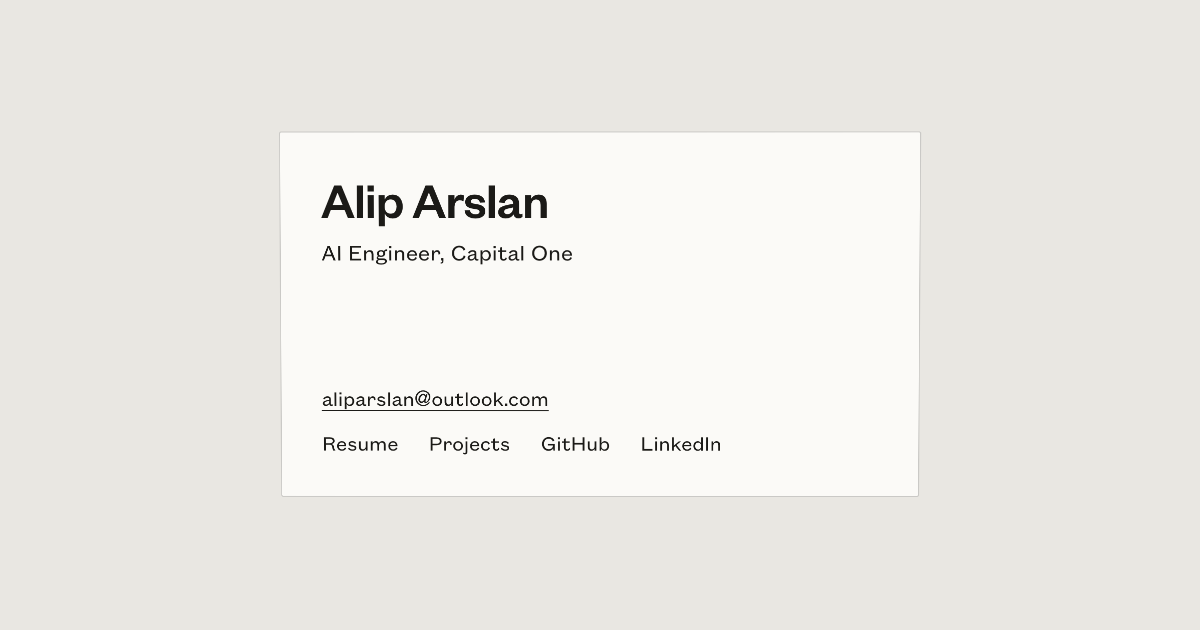
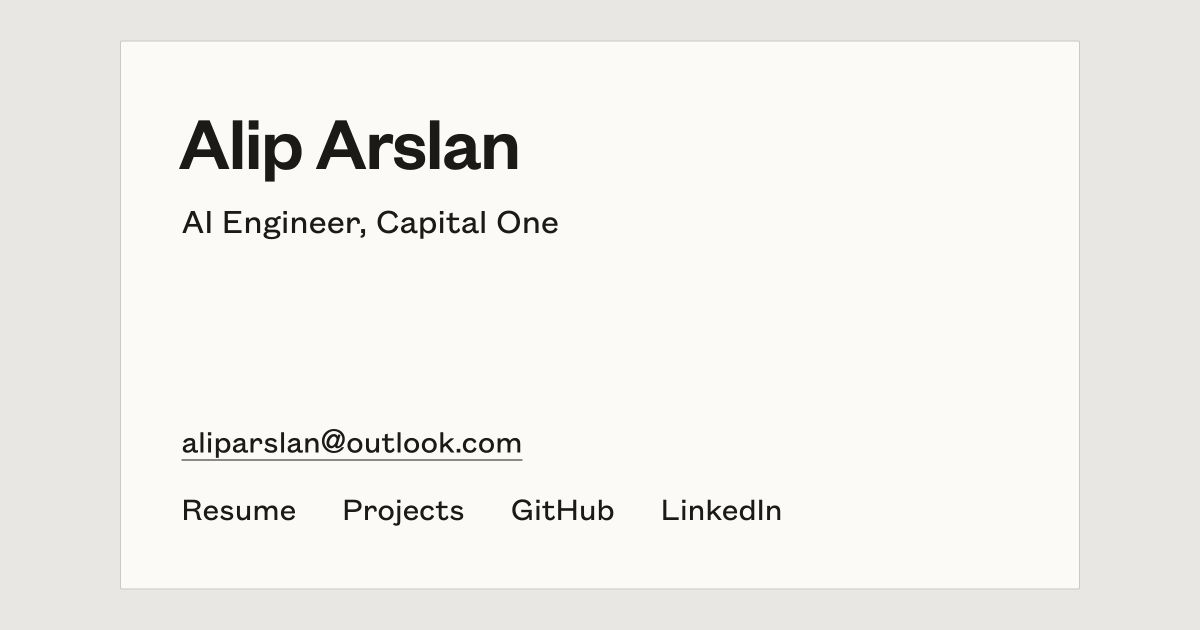
make preview larger, improve swipe animation

diff --git a/script.js b/script.js
@@ -3,13 +3,17 @@ const frontFace = document.getElementById('front');
 const backFace = document.getElementById('back');
 const showBackButton = document.getElementById('flip-to-back');
 const showFrontButton = document.getElementById('flip-to-front');
+const finePointer = window.matchMedia('(pointer: fine)').matches;
+const reducedMotion = window.matchMedia('(prefers-reduced-motion: reduce)').matches;
 
-function setFlipped(showBack) {
+function setFlipped(showBack, moveFocus = true) {
   card.classList.toggle('flipped', showBack);
   showBackButton.setAttribute('aria-expanded', String(showBack));
   frontFace.toggleAttribute('inert', showBack);
   backFace.toggleAttribute('inert', !showBack);
-  (showBack ? showFrontButton : showBackButton).focus({ preventScroll: true });
+  if (moveFocus) {
+    (showBack ? showFrontButton : showBackButton).focus({ preventScroll: true });
+  }
 }
 
 showBackButton.addEventListener('click', () => setFlipped(true));
@@ -25,6 +29,28 @@ window.addEventListener('keydown', (event) => {
 let swipeStart = null;
 let suppressClick = false;
 let suppressClickTimer;
+let dragCleanupTimer;
+
+function settleDrag(showBack, targetAngle, moveFocus) {
+  setFlipped(showBack, moveFocus);
+  card.classList.remove('dragging');
+
+  window.requestAnimationFrame(() => {
+    function finish() {
+      card.removeEventListener('transitionend', finish);
+      clearTimeout(dragCleanupTimer);
+      card.classList.add('normalizing');
+      window.requestAnimationFrame(() => {
+        card.style.removeProperty('transform');
+        window.requestAnimationFrame(() => card.classList.remove('normalizing'));
+      });
+    }
+
+    card.addEventListener('transitionend', finish);
+    card.style.transform = `rotateY(${targetAngle}deg)`;
+    dragCleanupTimer = window.setTimeout(finish, 800);
+  });
+}
 
 card.addEventListener('pointerdown', (event) => {
   if (event.pointerType !== 'touch' || !event.isPrimary) return;
@@ -34,34 +60,77 @@ card.addEventListener('pointerdown', (event) => {
     id: event.pointerId,
     x: event.clientX,
     y: event.clientY,
+    startedAt: event.timeStamp,
+    width: card.getBoundingClientRect().width,
+    wasFlipped: card.classList.contains('flipped'),
+    dragging: false,
     startedOnControl: Boolean(eventTarget?.closest('a, button')),
   };
 });
 
-card.addEventListener('pointerup', (event) => {
+window.addEventListener('pointermove', (event) => {
+  if (!swipeStart || event.pointerId !== swipeStart.id) return;
+
+  const deltaX = event.clientX - swipeStart.x;
+  const deltaY = event.clientY - swipeStart.y;
+  const hasHorizontalIntent =
+    Math.abs(deltaX) >= 8 && Math.abs(deltaX) > Math.abs(deltaY);
+  if (!hasHorizontalIntent) return;
+
+  event.preventDefault();
+  swipeStart.dragging = true;
+  if (reducedMotion) return;
+
+  const progress = Math.min(Math.abs(deltaX) / (swipeStart.width * 0.65), 1);
+  const baseAngle = swipeStart.wasFlipped ? 180 : 0;
+  const angle = baseAngle - Math.sign(deltaX) * progress * 180;
+
+  card.classList.add('dragging');
+  card.style.transform = `rotateY(${angle}deg)`;
+}, { passive: false });
+
+window.addEventListener('pointerup', (event) => {
   if (!swipeStart || event.pointerId !== swipeStart.id) return;
 
   const gesture = swipeStart;
   const deltaX = event.clientX - gesture.x;
   const deltaY = event.clientY - gesture.y;
-  const minDistance = Math.max(44, card.getBoundingClientRect().width * 0.12);
-  const isSwipe =
-    Math.abs(deltaX) >= minDistance &&
-    Math.abs(deltaX) > Math.abs(deltaY) * 1.25;
+  const distance = Math.abs(deltaX);
+  const duration = Math.max(event.timeStamp - gesture.startedAt, 1);
+  const velocity = distance / duration;
+  const minDistance = Math.max(44, gesture.width * 0.12);
+  const isHorizontal = distance > Math.abs(deltaY) * 1.25;
+  const isFlick = distance >= 20 && velocity >= 0.5;
+  const shouldFlip = isHorizontal && (distance >= minDistance || isFlick);
   swipeStart = null;
 
-  if (!isSwipe) return;
-
-  suppressClick = gesture.startedOnControl;
+  suppressClick = gesture.startedOnControl && gesture.dragging;
   clearTimeout(suppressClickTimer);
   suppressClickTimer = window.setTimeout(() => {
     suppressClick = false;
   }, 500);
-  setFlipped(!card.classList.contains('flipped'));
+
+  const showBack = shouldFlip ? !gesture.wasFlipped : gesture.wasFlipped;
+  if (!gesture.dragging || reducedMotion) {
+    if (shouldFlip) setFlipped(showBack);
+    return;
+  }
+
+  const baseAngle = gesture.wasFlipped ? 180 : 0;
+  const targetAngle = shouldFlip
+    ? baseAngle - Math.sign(deltaX) * 180
+    : baseAngle;
+  settleDrag(showBack, targetAngle, shouldFlip);
 });
 
-card.addEventListener('pointercancel', () => {
+window.addEventListener('pointercancel', (event) => {
+  if (!swipeStart || event.pointerId !== swipeStart.id) return;
+
+  const gesture = swipeStart;
   swipeStart = null;
+  if (gesture.dragging && !reducedMotion) {
+    settleDrag(gesture.wasFlipped, gesture.wasFlipped ? 180 : 0, false);
+  }
 });
 
 card.addEventListener('click', (event) => {
@@ -76,8 +145,6 @@ card.addEventListener('click', (event) => {
 // Pointer tilt
 const scene = document.querySelector('.scene');
 const tilt = document.querySelector('.tilt');
-const finePointer = window.matchMedia('(pointer: fine)').matches;
-const reducedMotion = window.matchMedia('(prefers-reduced-motion: reduce)').matches;
 
 if (finePointer && !reducedMotion) {
   const MAX_TILT = 2.2;
@@ -123,6 +190,8 @@ if (finePointer && !reducedMotion) {
   }
 
   window.addEventListener('pointermove', (event) => {
+    if (event.pointerType !== 'mouse') return;
+
     const bounds = scene.getBoundingClientRect();
     const insideScene =
       event.clientX >= bounds.left &&

diff --git a/index.html b/index.html
@@ -3,7 +3,7 @@
 <head>
   <meta charset="UTF-8">
   <meta name="viewport" content="width=device-width, initial-scale=1.0">
-  <title>Alip Arslan — AI Engineer</title>
+  <title>Alip Arslan - AI Engineer</title>
   <meta name="description" content="Alip Arslan — AI engineer at Capital One.">
   <meta name="theme-color" content="#e9e7e2" media="(prefers-color-scheme: light)">
   <meta name="theme-color" content="#0d0d0c" media="(prefers-color-scheme: dark)">
@@ -17,6 +17,25 @@
   <meta property="og:image:height" content="630">
   <meta property="og:image:alt" content="Alip Arslan's digital business card">
   <meta name="twitter:card" content="summary_large_image">
+
+  <script type="application/ld+json">
+    {
+      "@context": "https://schema.org",
+      "@type": "Person",
+      "name": "Alip Arslan",
+      "url": "https://alip.dev/",
+      "email": "mailto:aliparslan@outlook.com",
+      "jobTitle": "AI Engineer",
+      "worksFor": {
+        "@type": "Organization",
+        "name": "Capital One"
+      },
+      "sameAs": [
+        "https://github.com/aliparslan",
+        "https://linkedin.com/in/aliparslan"
+      ]
+    }
+  </script>
 
   <link rel="canonical" href="https://alip.dev/">
   <link rel="icon" href="/static/favicon.png" type="image/png">

diff --git a/styles.css b/styles.css
@@ -75,6 +75,9 @@ body {
   transition: transform 0.7s var(--ease);
 }
 
+.card.dragging,
+.card.normalizing { transition: none; }
+
 .card.flipped { transform: rotateY(180deg); }
 
 .face {
